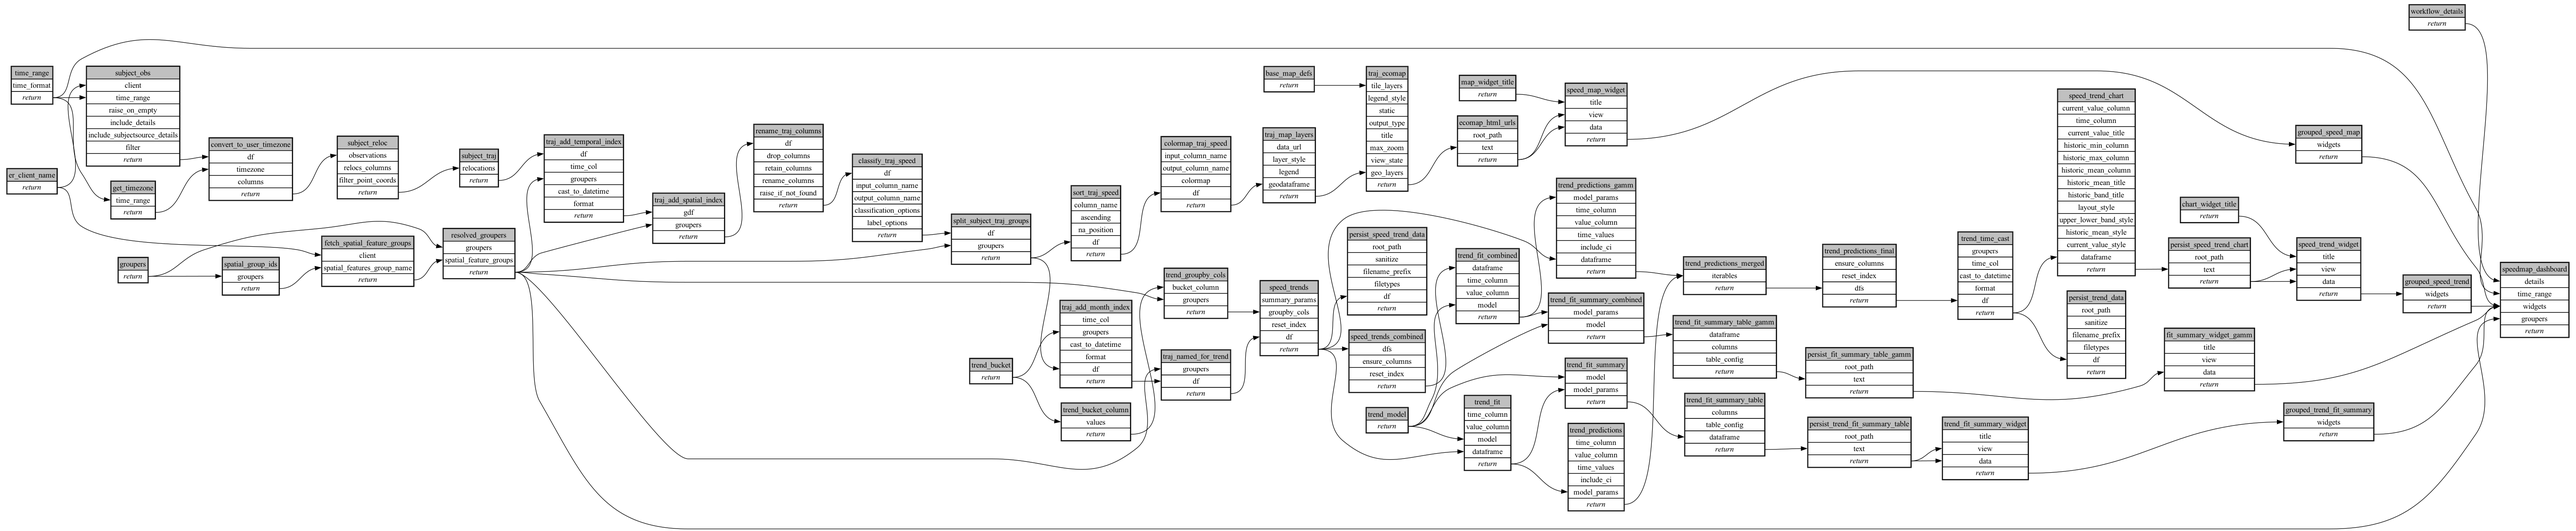
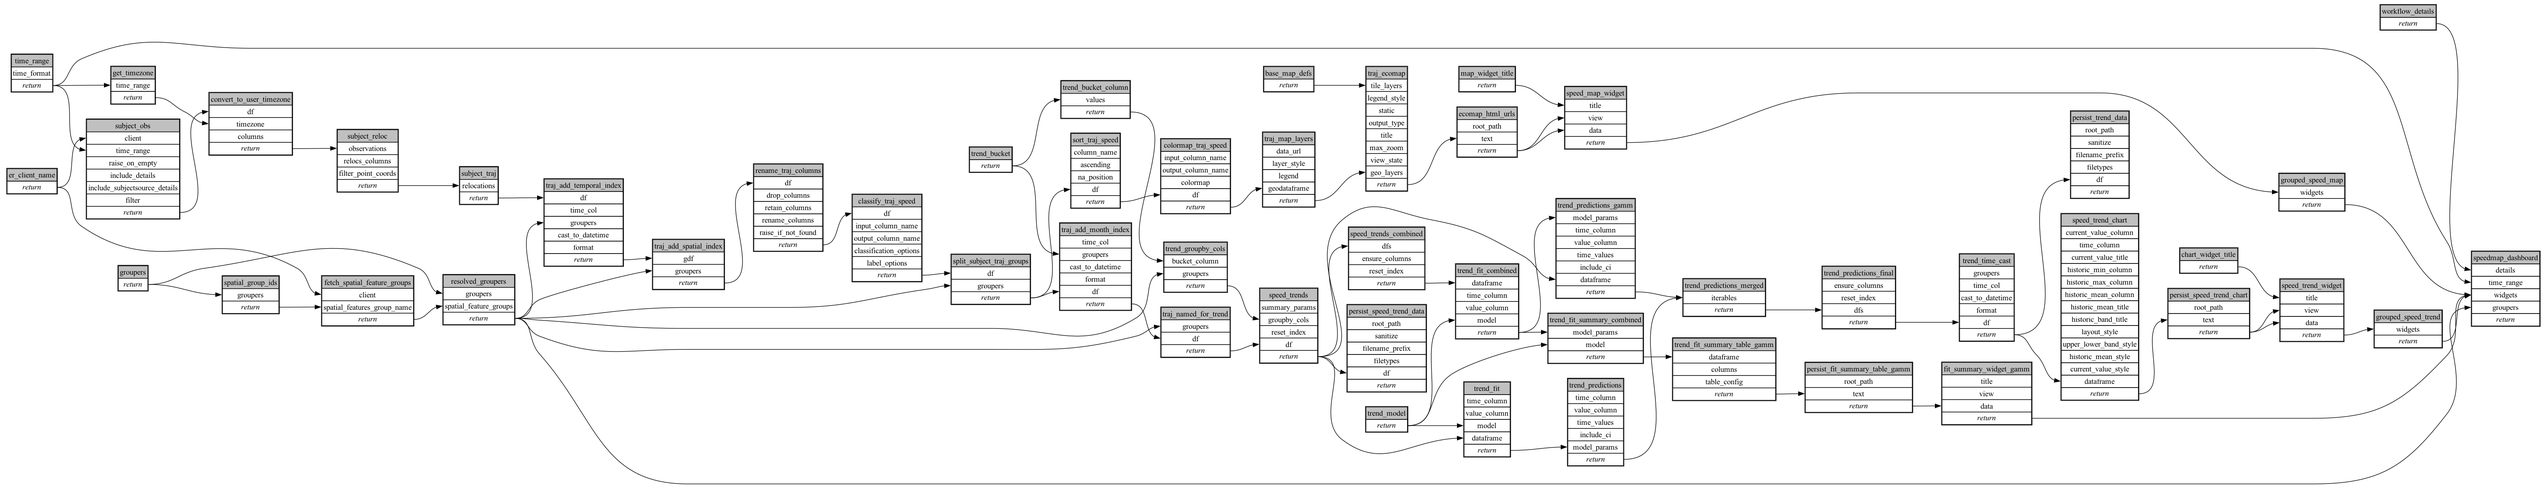
Remove per-group Trend Model Fit Parameters table, keep only GAMM's
Having both a per-group table (Linear/GLM/GAM) and a shared GAMM table
meant one was always visibly blank alongside the other, since exactly
one branch has real data at a time - simplify to just the GAMM table
(the more useful one, given it's the one with a genuine posterior/
convergence diagnostics to inspect) and drop the per-group one and its
task chain entirely. Updates layout.json (now 3 widgets instead of 4)
and the README accordingly.

diff --git a/ecoscope-workflows-speedmap-workflow/ecoscope_workflows_speedmap_workflow/dags/run_sequential.py b/ecoscope-workflows-speedmap-workflow/ecoscope_workflows_speedmap_workflow/dags/run_sequential.py
@@ -886,108 +886,6 @@ def main(params: dict[str, Any], validate_params_schema: bool = True):
         .mapvalues(argnames=["dataframe"], argvalues=speed_trends)
     )
 
-    trend_fit_summary = (
-        task(get_trend_model_fit_summary)
-        .validate()
-        .set_task_instance_id("trend_fit_summary")
-        .handle_errors()
-        .with_tracing()
-        .skipif(
-            conditions=[
-                any_is_empty_df,
-                any_dependency_skipped,
-                is_gamm_trend_model,
-            ],
-            unpack_depth=1,
-        )
-        .partial(model=trend_model, **(params.get("trend_fit_summary") or {}))
-        .mapvalues(argnames=["model_params"], argvalues=trend_fit)
-    )
-
-    trend_fit_summary_table = (
-        task(draw_table)
-        .validate()
-        .set_task_instance_id("trend_fit_summary_table")
-        .handle_errors()
-        .with_tracing()
-        .skipif(
-            conditions=[
-                any_is_empty_df,
-                any_dependency_skipped,
-            ],
-            unpack_depth=1,
-        )
-        .partial(
-            columns=None,
-            table_config={
-                "enable_sorting": True,
-                "enable_filtering": False,
-                "enable_download": True,
-                "hide_header": False,
-            },
-            **(params.get("trend_fit_summary_table") or {}),
-        )
-        .mapvalues(argnames=["dataframe"], argvalues=trend_fit_summary)
-    )
-
-    persist_trend_fit_summary_table = (
-        task(persist_text)
-        .validate()
-        .set_task_instance_id("persist_trend_fit_summary_table")
-        .handle_errors()
-        .with_tracing()
-        .skipif(
-            conditions=[
-                any_is_empty_df,
-                any_dependency_skipped,
-            ],
-            unpack_depth=1,
-        )
-        .partial(
-            root_path=os.environ["ECOSCOPE_WORKFLOWS_RESULTS"],
-            **(params.get("persist_trend_fit_summary_table") or {}),
-        )
-        .mapvalues(argnames=["text"], argvalues=trend_fit_summary_table)
-    )
-
-    trend_fit_summary_widget = (
-        task(create_plot_widget_single_view)
-        .validate()
-        .set_task_instance_id("trend_fit_summary_widget")
-        .handle_errors()
-        .with_tracing()
-        .skipif(
-            conditions=[
-                never,
-            ],
-            unpack_depth=1,
-        )
-        .partial(
-            title="Trend Model Fit Parameters",
-            **(params.get("trend_fit_summary_widget") or {}),
-        )
-        .map(argnames=["view", "data"], argvalues=persist_trend_fit_summary_table)
-    )
-
-    grouped_trend_fit_summary = (
-        task(merge_widget_views)
-        .validate()
-        .set_task_instance_id("grouped_trend_fit_summary")
-        .handle_errors()
-        .with_tracing()
-        .skipif(
-            conditions=[
-                never,
-            ],
-            unpack_depth=1,
-        )
-        .partial(
-            widgets=trend_fit_summary_widget,
-            **(params.get("grouped_trend_fit_summary") or {}),
-        )
-        .call()
-    )
-
     trend_fit_summary_combined = (
         task(get_trend_model_fit_summary)
         .validate()
@@ -1335,12 +1233,7 @@ def main(params: dict[str, Any], validate_params_schema: bool = True):
         .partial(
             details=workflow_details,
             time_range=time_range,
-            widgets=[
-                grouped_speed_map,
-                grouped_speed_trend,
-                grouped_trend_fit_summary,
-                fit_summary_widget_gamm,
-            ],
+            widgets=[grouped_speed_map, grouped_speed_trend, fit_summary_widget_gamm],
             groupers=resolved_groupers,
             **(params.get("speedmap_dashboard") or {}),
         )

diff --git a/ecoscope-workflows-speedmap-workflow/ecoscope_workflows_speedmap_workflow/dags/run_sequential_mock_io.py b/ecoscope-workflows-speedmap-workflow/ecoscope_workflows_speedmap_workflow/dags/run_sequential_mock_io.py
@@ -901,108 +901,6 @@ def main(params: dict[str, Any], validate_params_schema: bool = True):
         .mapvalues(argnames=["dataframe"], argvalues=speed_trends)
     )
 
-    trend_fit_summary = (
-        task(get_trend_model_fit_summary)
-        .validate()
-        .set_task_instance_id("trend_fit_summary")
-        .handle_errors()
-        .with_tracing()
-        .skipif(
-            conditions=[
-                any_is_empty_df,
-                any_dependency_skipped,
-                is_gamm_trend_model,
-            ],
-            unpack_depth=1,
-        )
-        .partial(model=trend_model, **(params.get("trend_fit_summary") or {}))
-        .mapvalues(argnames=["model_params"], argvalues=trend_fit)
-    )
-
-    trend_fit_summary_table = (
-        task(draw_table)
-        .validate()
-        .set_task_instance_id("trend_fit_summary_table")
-        .handle_errors()
-        .with_tracing()
-        .skipif(
-            conditions=[
-                any_is_empty_df,
-                any_dependency_skipped,
-            ],
-            unpack_depth=1,
-        )
-        .partial(
-            columns=None,
-            table_config={
-                "enable_sorting": True,
-                "enable_filtering": False,
-                "enable_download": True,
-                "hide_header": False,
-            },
-            **(params.get("trend_fit_summary_table") or {}),
-        )
-        .mapvalues(argnames=["dataframe"], argvalues=trend_fit_summary)
-    )
-
-    persist_trend_fit_summary_table = (
-        task(persist_text)
-        .validate()
-        .set_task_instance_id("persist_trend_fit_summary_table")
-        .handle_errors()
-        .with_tracing()
-        .skipif(
-            conditions=[
-                any_is_empty_df,
-                any_dependency_skipped,
-            ],
-            unpack_depth=1,
-        )
-        .partial(
-            root_path=os.environ["ECOSCOPE_WORKFLOWS_RESULTS"],
-            **(params.get("persist_trend_fit_summary_table") or {}),
-        )
-        .mapvalues(argnames=["text"], argvalues=trend_fit_summary_table)
-    )
-
-    trend_fit_summary_widget = (
-        task(create_plot_widget_single_view)
-        .validate()
-        .set_task_instance_id("trend_fit_summary_widget")
-        .handle_errors()
-        .with_tracing()
-        .skipif(
-            conditions=[
-                never,
-            ],
-            unpack_depth=1,
-        )
-        .partial(
-            title="Trend Model Fit Parameters",
-            **(params.get("trend_fit_summary_widget") or {}),
-        )
-        .map(argnames=["view", "data"], argvalues=persist_trend_fit_summary_table)
-    )
-
-    grouped_trend_fit_summary = (
-        task(merge_widget_views)
-        .validate()
-        .set_task_instance_id("grouped_trend_fit_summary")
-        .handle_errors()
-        .with_tracing()
-        .skipif(
-            conditions=[
-                never,
-            ],
-            unpack_depth=1,
-        )
-        .partial(
-            widgets=trend_fit_summary_widget,
-            **(params.get("grouped_trend_fit_summary") or {}),
-        )
-        .call()
-    )
-
     trend_fit_summary_combined = (
         task(get_trend_model_fit_summary)
         .validate()
@@ -1350,12 +1248,7 @@ def main(params: dict[str, Any], validate_params_schema: bool = True):
         .partial(
             details=workflow_details,
             time_range=time_range,
-            widgets=[
-                grouped_speed_map,
-                grouped_speed_trend,
-                grouped_trend_fit_summary,
-                fit_summary_widget_gamm,
-            ],
+            widgets=[grouped_speed_map, grouped_speed_trend, fit_summary_widget_gamm],
             groupers=resolved_groupers,
             **(params.get("speedmap_dashboard") or {}),
         )

diff --git a/README.md b/README.md
@@ -59,48 +59,36 @@ UI form - `param.yaml`/`test-cases.yaml` must set the same fields explicitly
 since a headless run without form defaults otherwise falls back to
 `ecoscope`'s own library-wide pydantic defaults.
 
-### Trend Model Fit Parameters table
+### Trend Model Fit Parameters table (GAMM only)
 
-Alongside the trend chart, the dashboard shows a **Trend Model Fit
-Parameters** table - the raw output of the model's own fit, one row per
-parameter, for inspecting the fit itself rather than just its predicted
-curve. Since GAMM fits once combined across every group, its table is the
-*same* one shared fit for every group - shown once, unfiltered, rather
-than duplicated per group like the per-group models' tables.
+When GAMM is selected, the dashboard also shows a **Trend Model Fit
+Parameters** table - the raw pymc/bambi posterior summary from the
+combined fit, one row per parameter, for inspecting the fit itself
+rather than just its predicted curve. Since GAMM fits once combined
+across every group, this is a single table shown once, unfiltered
+(the same shared fit applies regardless of which group is selected) -
+not shown at all for Linear/GLM/GAM, which don't have a comparable
+posterior to summarize this way.
 
-**Columns**, which differ by model since GAMM's fit is Bayesian and the
-other three are frequentist:
-
-| Model | Columns |
-|---|---|
-| Linear / GLM / GAM | `coefficient`, `std_error`, `p_value`, `ci_lower`, `ci_upper` |
-| GAMM | `mean`, `sd`, `eti89_lb`, `eti89_ub`, `ess_bulk`, `ess_tail`, `r_hat` |
-
-For GAMM: `eti89_lb`/`eti89_ub` is the 89% credible interval;
-`ess_bulk`/`ess_tail` is the effective sample size (low values mean the
-MCMC chains didn't mix well); `r_hat` should be close to 1.0 - values
-above ~1.01 mean the chains disagree and the fit needs more draws/tuning
-to trust.
+**Columns**: `mean`, `sd`, `eti89_lb`/`eti89_ub` (89% credible
+interval), `ess_bulk`/`ess_tail` (effective sample size - low values
+mean the MCMC chains didn't mix well), `r_hat` (should be close to
+1.0 - values above ~1.01 mean the chains disagree and the fit needs
+more draws/tuning to trust).
 
 The table itself has sorting and CSV download built in
-(`table_config.enable_download`), so there's no separate raw-CSV file for
-this alongside it.
+(`table_config.enable_download`), so there's no separate raw-CSV file
+for this alongside it.
 
 **Rows** - what each parameter name means:
 
-| Row (GAMM) | Meaning |
+| Row | Meaning |
 |---|---|
 | `sigma` | Residual noise: how much observed speed varies around the fitted curve after accounting for everything else. |
 | `Intercept` | The population-level baseline: average mean speed across *all* groups combined, on the model's internal (centered/scaled) scale. |
 | `bs(year, df=N)[0]`, `[1]`, ... | Spline basis coefficients that together draw the smooth trend curve's *shape* over time - not speed values on their own, weights on B-spline basis functions that only make sense combined. |
 | `1\|site_id_sigma` | The between-group variance: how much groups typically differ from each other. Small = groups behave similarly; large = groups vary a lot. |
 | `1\|site_id[<name>]` | One row per group: that specific group's own offset from the population baseline (`Intercept`) - the actual random effect, i.e. how much faster/slower *this* group is than the shared average. |
-
-| Row (Linear / GLM / GAM) | Meaning |
-|---|---|
-| `const` | The intercept: the baseline mean speed the line/curve starts from. |
-| `x1` (Linear/GLM) | The slope: how much mean speed changes per unit of time. |
-| `x0_s0`, `x0_s1`, ... (GAM) | Spline basis coefficients (same idea as GAMM's `bs(...)` terms above) - not speed values on their own, but what shapes the fit. |
 
 ## Workflow Development
 

diff --git a/ecoscope-workflows-speedmap-workflow/README.md b/ecoscope-workflows-speedmap-workflow/README.md
@@ -5,8 +5,8 @@
 
 ```yaml
 # fingerprint:
-artifacts_sha256_basic: 29661c6fc0bb80099b0012698d02d88ae6cefce0d5e5c90274e67b8ba083a8b3
-artifacts_sha256_strict: 94f9778e4f92bc0973087a48b1b5004afeaf00938817e33ca46162177b0ca3f9
+artifacts_sha256_basic: 48620fb3b451729c4156068137c81ab31a48e6b1e405d4728d8558ae3b1fc5a5
+artifacts_sha256_strict: 50386b30b041425895415938bceaa06252eae1e5b86b89968717aa20327f29ec
 installed_requirements:
 - channel: https://repo.prefix.dev/ecoscope-workflows/
   name: ecoscope-platform
@@ -15,7 +15,7 @@ installed_requirements:
   name: pydeck
   version: {version: ==0.9.2}
 params_sha256: bada4236600cdd9a591ee3210e97e844ad72a9b04773c7bf318e1379fc2af615
-spec_sha256: 68f3e34c19226f7bb10294dd3fd0a3c0c8bab31b7d63c1d87f9c8c067fa0c1b4
+spec_sha256: d073658bd1bbc50b42ce4e02b4fae7576ba3878c42229d8dc8852d23b25550f1
 
 ```
 
